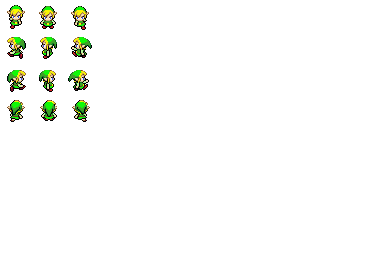
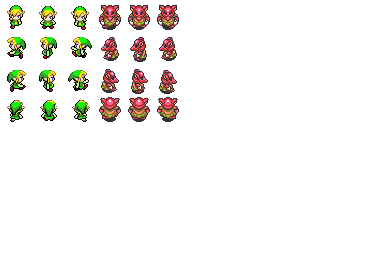
Mob + correction + attack

Changed region(s): [[0.25, 0.0, 0.4688, 0.5]]

diff --git a/src/js/link.js b/src/js/link.js
@@ -1,16 +1,4 @@
-var mydata = map; //json
-//this.div.setAttribute("class", mydata[0].val0);
-//var jambon = 0;
-//
-//var maping = function(name){
-//  
-//  for(){
-//    this.div = document.createElement("div");
-//    this.div.setAttribute("class", mydata[jambon].val0);
-//    
-//    this.afficherTest();
-//  }
-//}
+var mydata = map;
 
 var maping = function () { 
 
@@ -54,7 +42,6 @@ var link = function (name, posX, posY) {
     this.div.setAttribute("class", "zelda");
     this.div.style.top = this.posY + "px";
     this.div.style.left = this.posX + "px";
-
     this.afficherLink();
 
 
@@ -73,50 +60,38 @@ var link = function (name, posX, posY) {
 
         that.posY -= 10;
         that.attackDirection = 1;
-        console.log(that.attackDirection);
-
         if (e.keyCode == that.transform[1])
-          that.div.setAttribute("class", "zelda");
+        that.div.setAttribute("class", "zelda");
         that.div.style.backgroundPosition = "0 -96px";
-        setTimeout(function () {
-          that.div.style.backgroundPosition = "-64px -96px"
-        }, 200);
+       
+        
 
 
       } else if (e.keyCode == that.cross[1]) {
         that.posX += 10;
         that.attackDirection = 2;
-        console.log(that.attackDirection);
         if (e.keyCode == that.transform[1])
-          that.div.setAttribute("class", "zelda");
+        that.div.setAttribute("class", "zelda");
         that.div.style.backgroundPosition = "0 -64px";
-        setTimeout(function () {
-          that.div.style.backgroundPosition = "-64px -64px"
-        }, 200);
+       
 
       } else if (e.keyCode == that.cross[2]) {
 
         that.posY += 10;
         that.attackDirection = 3;
-        console.log(that.attackDirection);
         if (e.keyCode == that.transform[1])
-          that.div.setAttribute("class", "zelda");
+        that.div.setAttribute("class", "zelda");
         that.div.style.backgroundPosition = "0 0";
-        setTimeout(function () {
-          that.div.style.backgroundPosition = "-64px 0"
-        }, 200);
+        
 
 
       } else if (e.keyCode == that.cross[3]) {
         that.posX -= 10;
         that.attackDirection = 4;
-        console.log(that.attackDirection);
         if (e.keyCode == that.transform[1])
           that.div.setAttribute("class", "zelda");
         that.div.style.backgroundPosition = "-64px -32px";
-        setTimeout(function () {
-          that.div.style.backgroundPosition = "0px -32px"
-        }, 200);
+        
 
       } else if (e.keyCode == that.transform[0])
 
@@ -140,7 +115,6 @@ var link = function (name, posX, posY) {
 
 
   }
-  
   this.attack = function(){
     
     var that = this;
@@ -150,25 +124,37 @@ var link = function (name, posX, posY) {
       
       if (that.attackDirection == 1){
         
-        console.log('up');
+        that.div.style.backgroundPosition = "-96px -96px";
+        setTimeout(function () {
+          that.div.style.backgroundPosition = "-64px -96px"
+        }, 200);
 
       }
       
       else if (that.attackDirection == 2){
         
-        console.log('right');
+        that.div.style.backgroundPosition = "-96px -64px";
+        setTimeout(function () {
+          that.div.style.backgroundPosition = "-64px -64px"
+        }, 200);
         
       }
       
       else if (that.attackDirection == 3){
         
-        console.log('down');
+        that.div.style.backgroundPosition = "-96px 0";
+        setTimeout(function () {
+          that.div.style.backgroundPosition = "-64px 0"
+        }, 200);
         
       }
       
       else if (that.attackDirection == 4){
         
-        console.log('left');
+        that.div.style.backgroundPosition = "-96px -32px";
+        setTimeout(function () {
+          that.div.style.backgroundPosition = "0px -32px"
+        }, 200);
      
       }
       
@@ -188,10 +174,33 @@ zelda1.bougerLink();
 zelda1.attackDirection = [];
 zelda1.attack();
 
-var monster = function(type, posX, posY) {
+// Mobs 
+
+var monster = function(posX, posY) { 
   
-  this.type = type;
-  this.posX = posX;
-  this.posY = posY;
+  this.posX = Math.floor(Math.random() * 800);
+  this.posY = Math.floor(Math.random() * 800);
+  this.div; 
   
-}
+  this.createMob = function () { 
+    
+    this.div = document.createElement("div"); this.div.setAttribute("class", "mob"); 
+    this.div.style.backgroundPosition = "-128px -32px";
+    this.div.style.top = this.posY + "px"; 
+    this.div.style.left = this.posX + "px"; 
+    this.displayMob(); 
+  } 
+  
+  this.displayMob = function () {
+    
+    document.querySelector("body").appendChild(this.div); 
+  } 
+  
+  
+} 
+
+
+var monster1 = new monster(this.posY, this.posX);
+monster1.createMob();
+
+

diff --git a/src/css/style.css b/src/css/style.css
@@ -36,6 +36,16 @@ body{
 }
 
 .zelda{
+  background-image:url(zelda1.png);
+  width:32px;
+  height:32px;
+  display:block;
+  background-repeat: no-repeat;
+  position:absolute;
+  background-position: -32px 0px; 
+}
+
+.mob{
   background-image:url(zelda.png);
   width:32px;
   height:32px;
